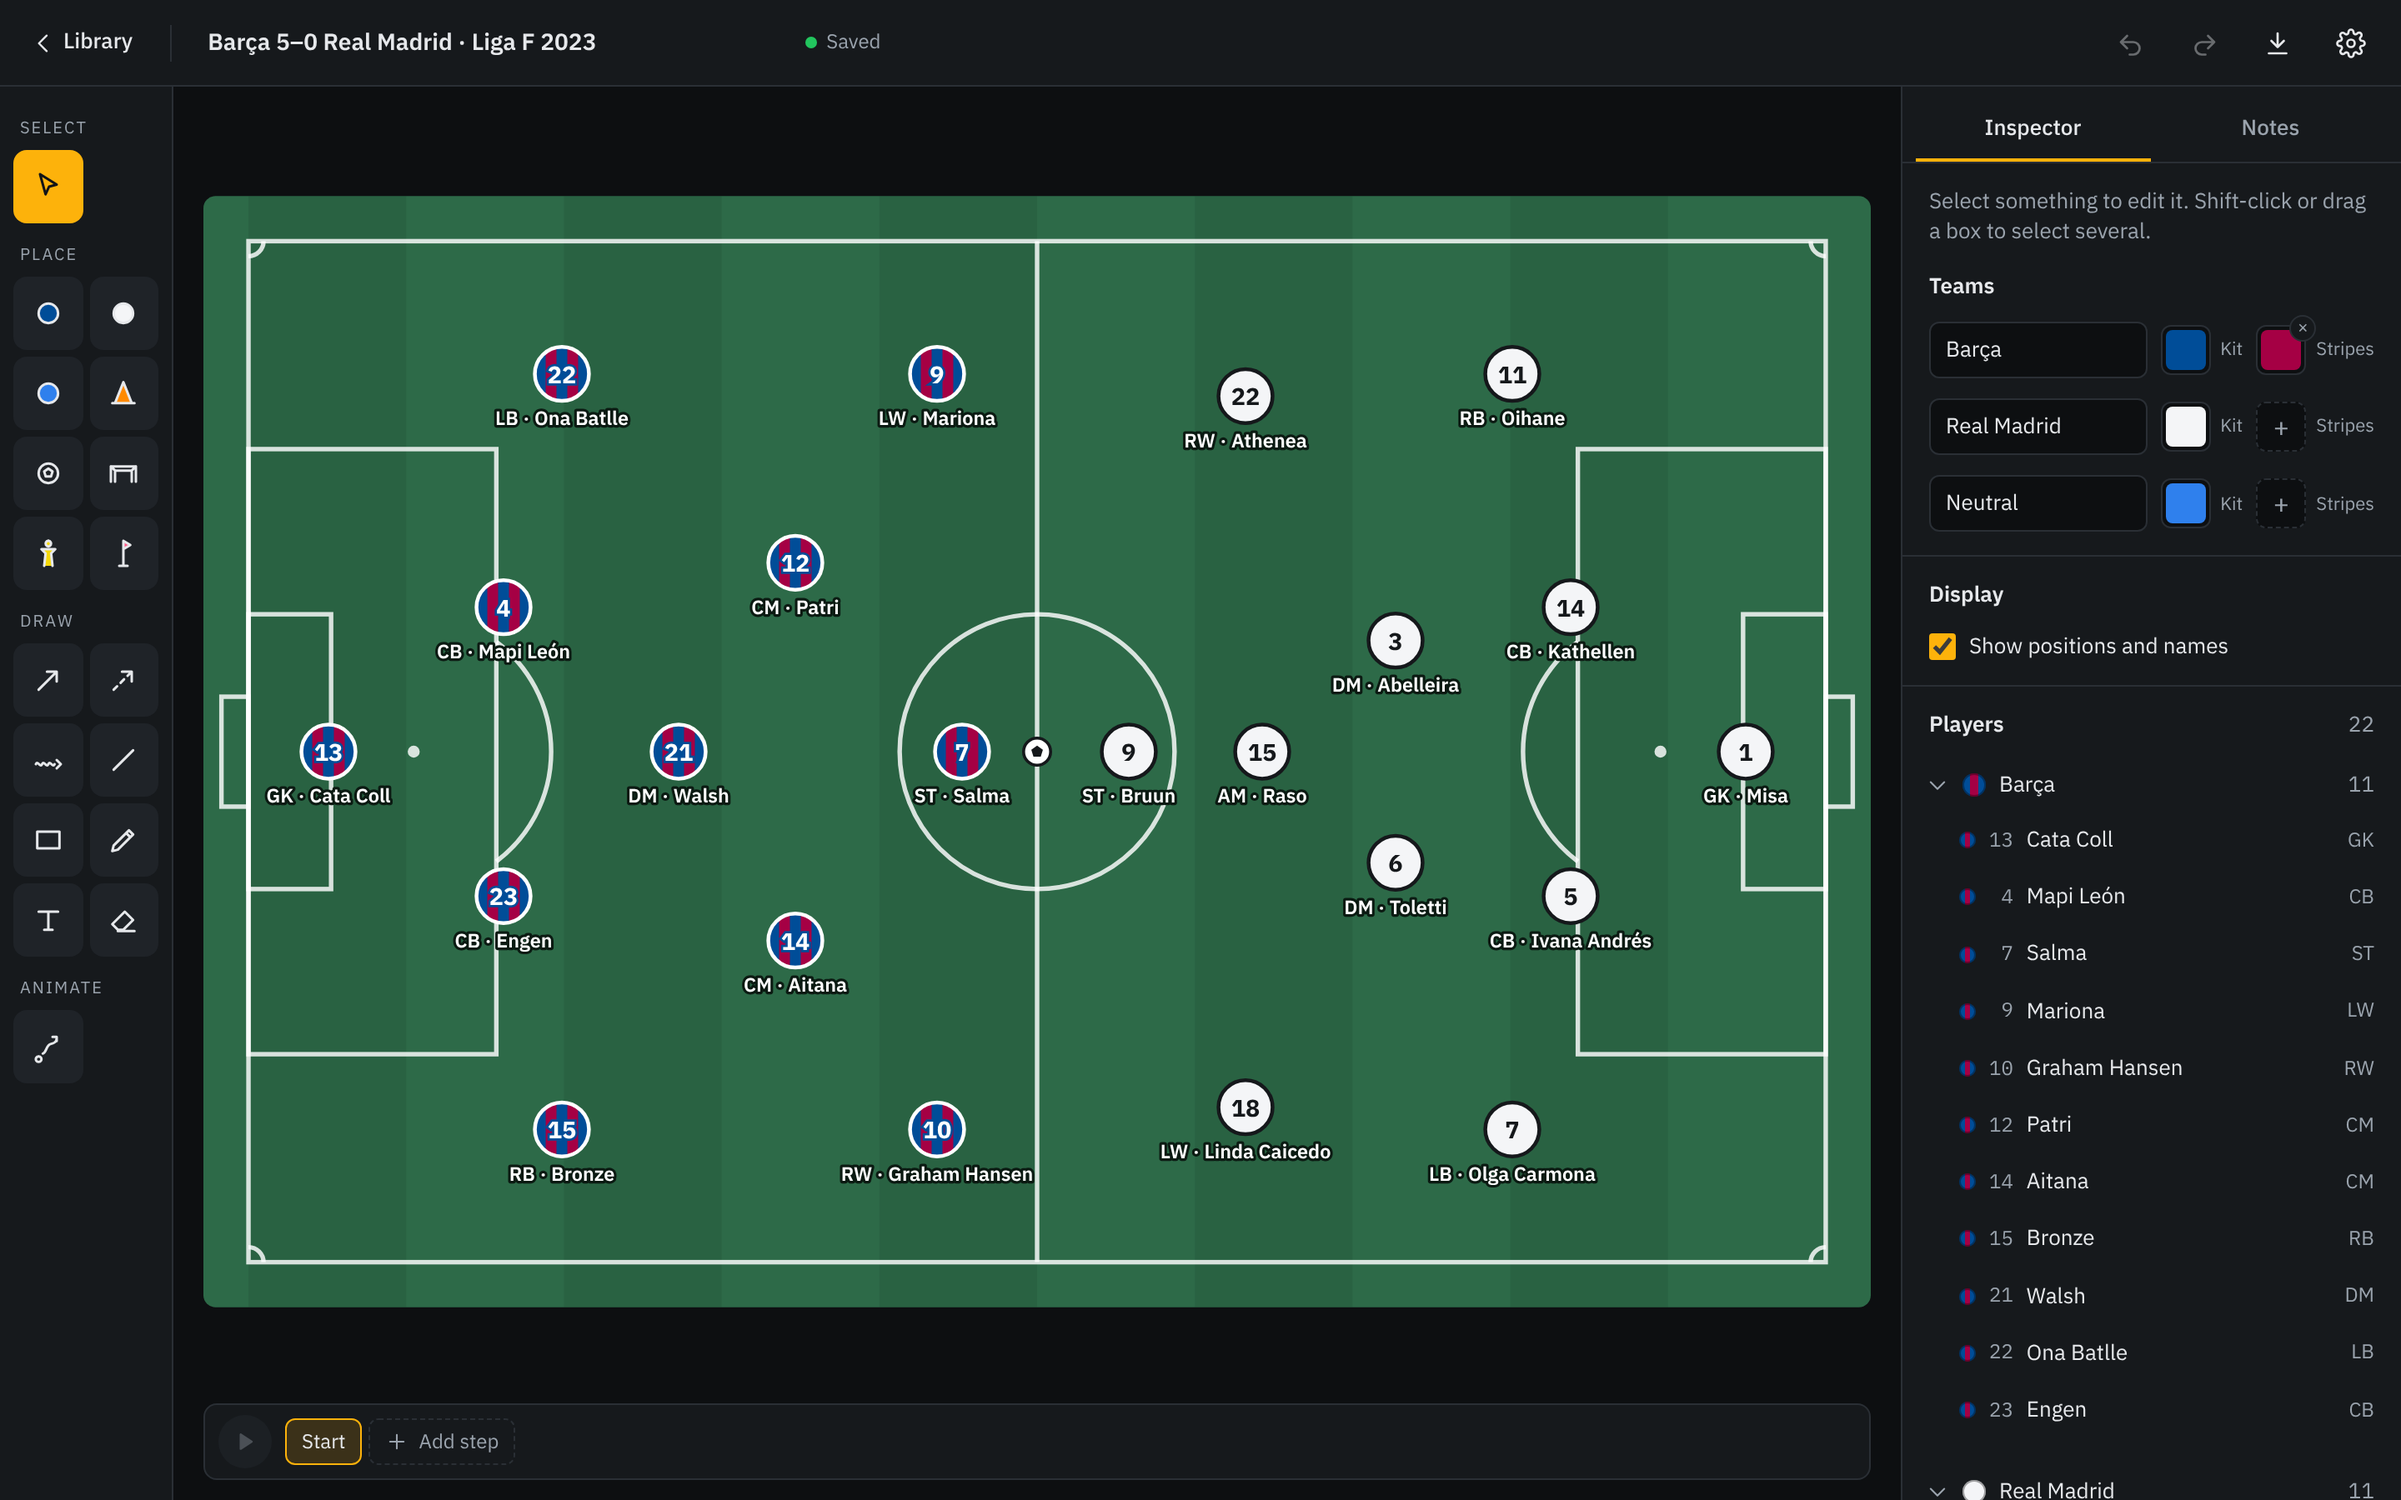
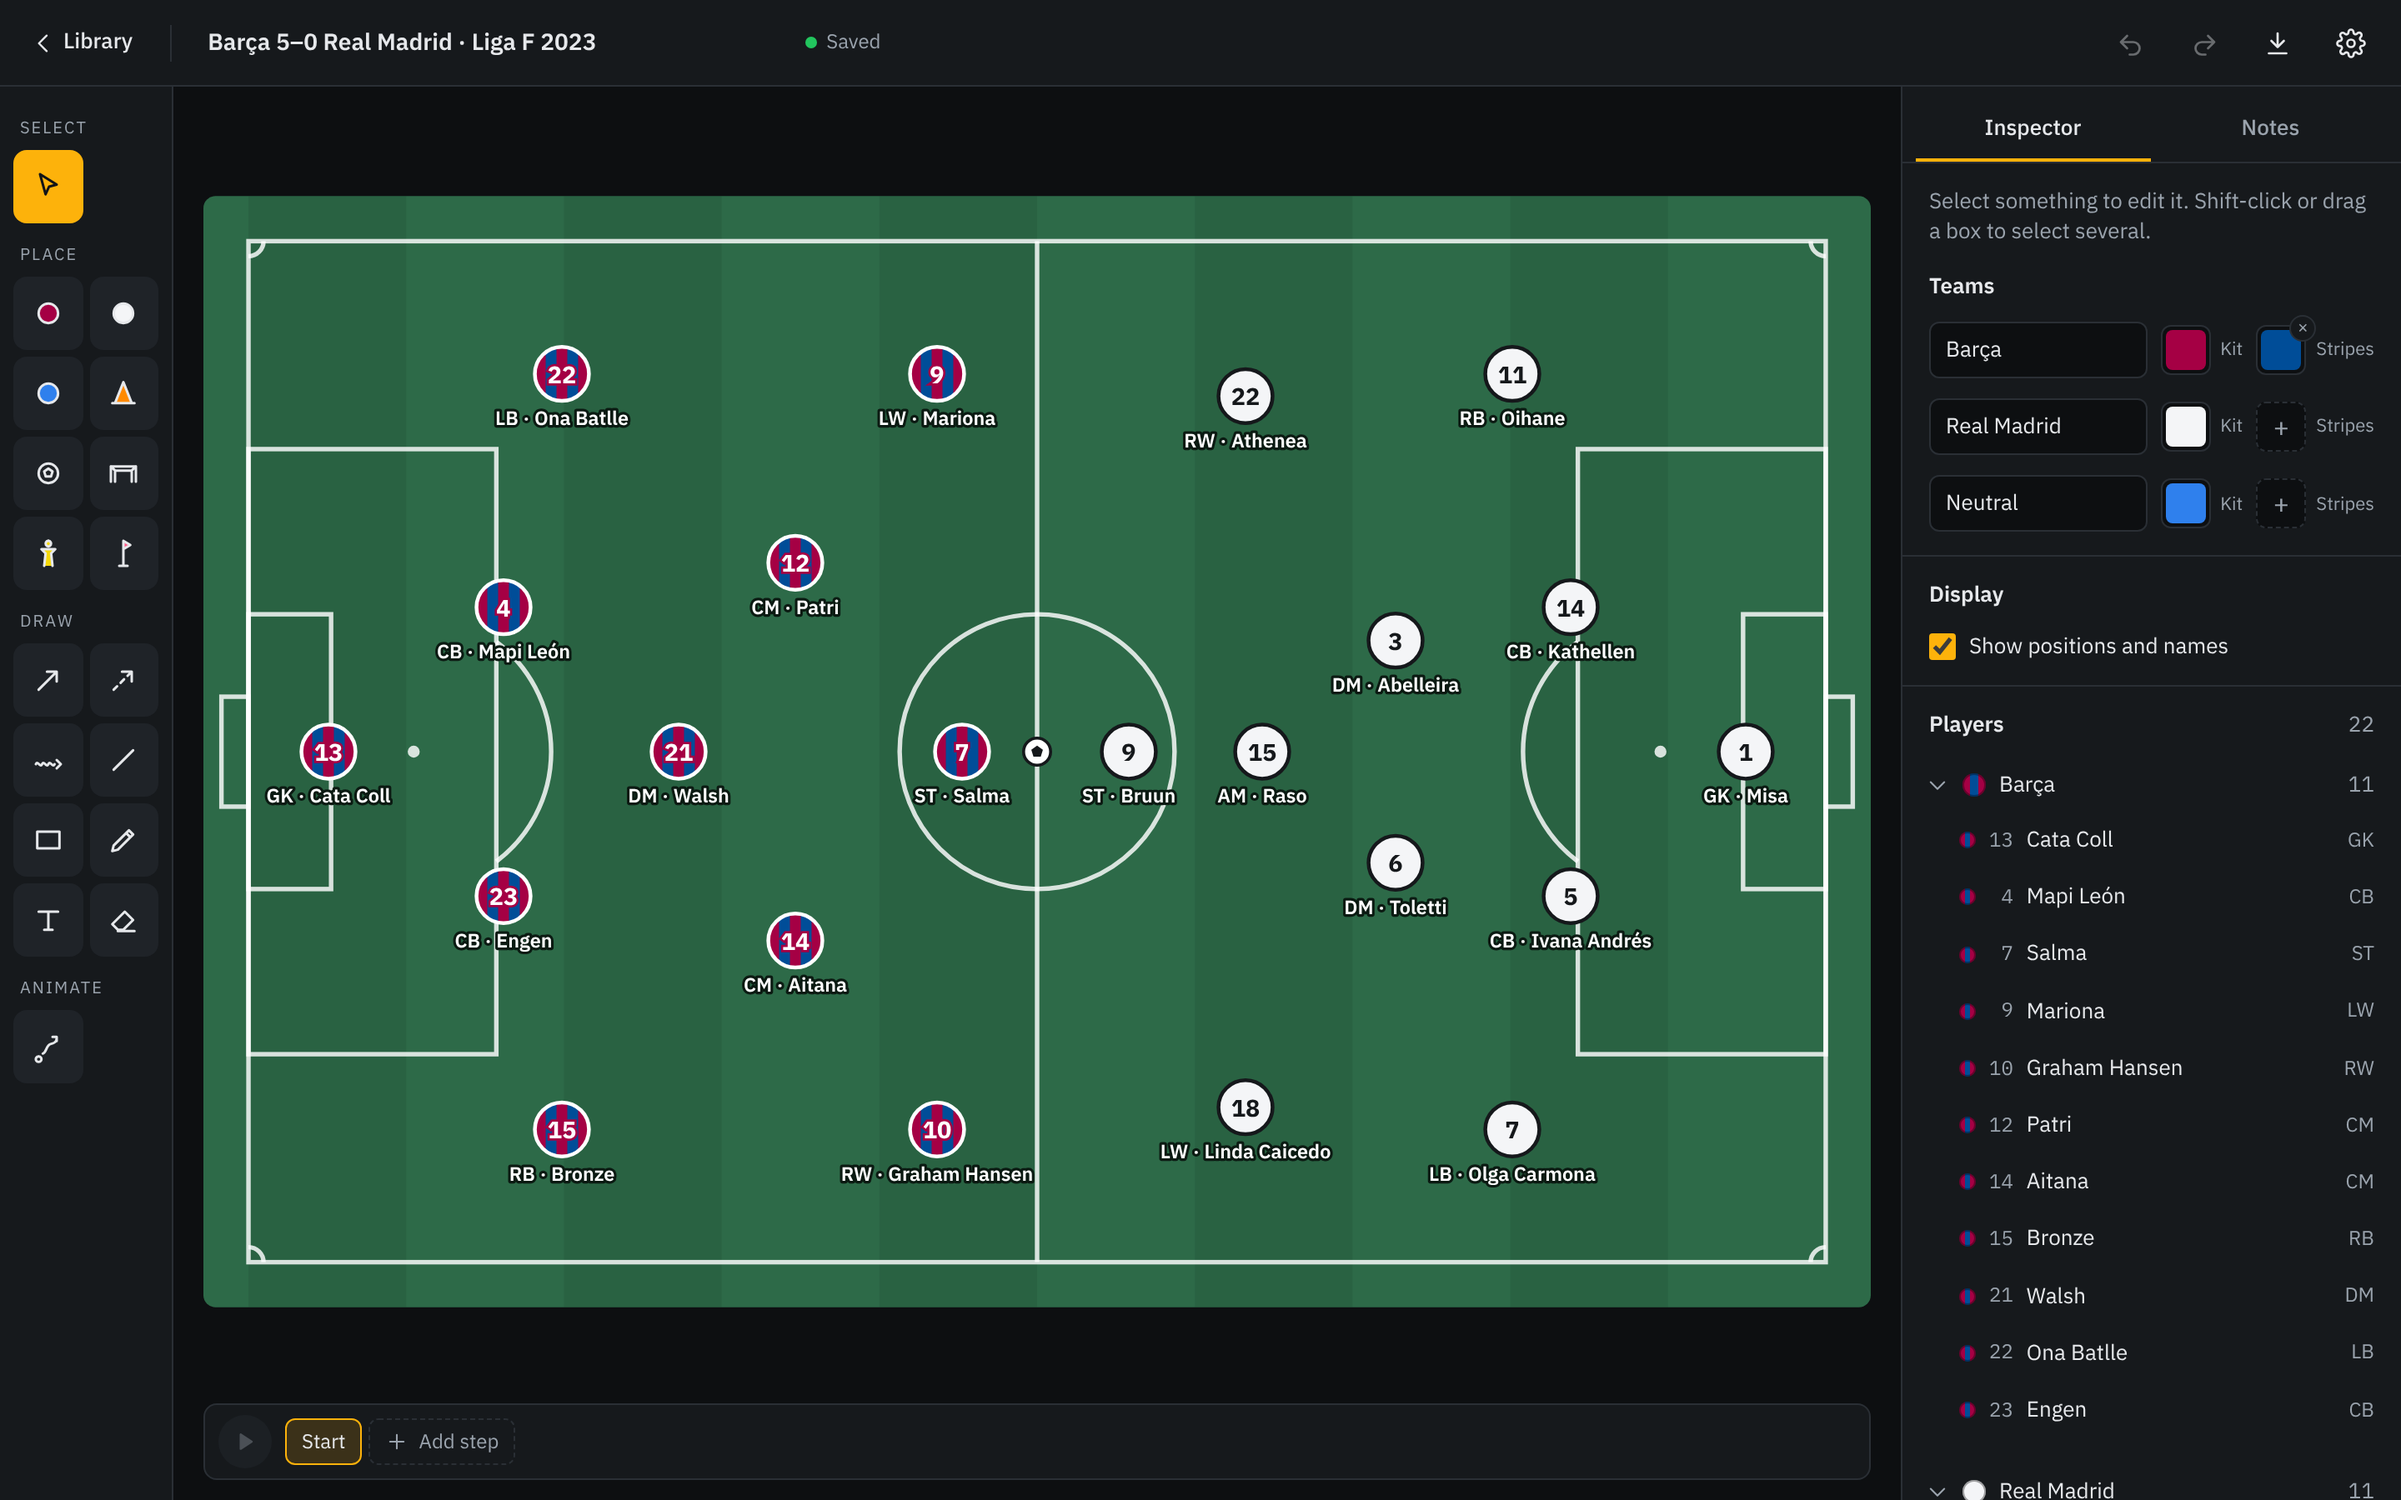
docs: swap the Barça example kit to garnet with blue stripes

diff --git a/CHANGELOG.md b/CHANGELOG.md
@@ -8,6 +8,12 @@ This project adheres to semantic versioning (0.x during early development).
 
 ## [Unreleased]
 
+### Changed
+
+- Clicking a team's name in the sidebar when all its players are selected now deselects them
+- The step section's buttons are now "Straighten run" and "Remove run" (it was "Stay put this step"), with clearer descriptions
+- The Barça example board and screenshots show the kit as garnet with blue stripes
+
 ---
 
 ## [0.6.0] - 2026-10-23
